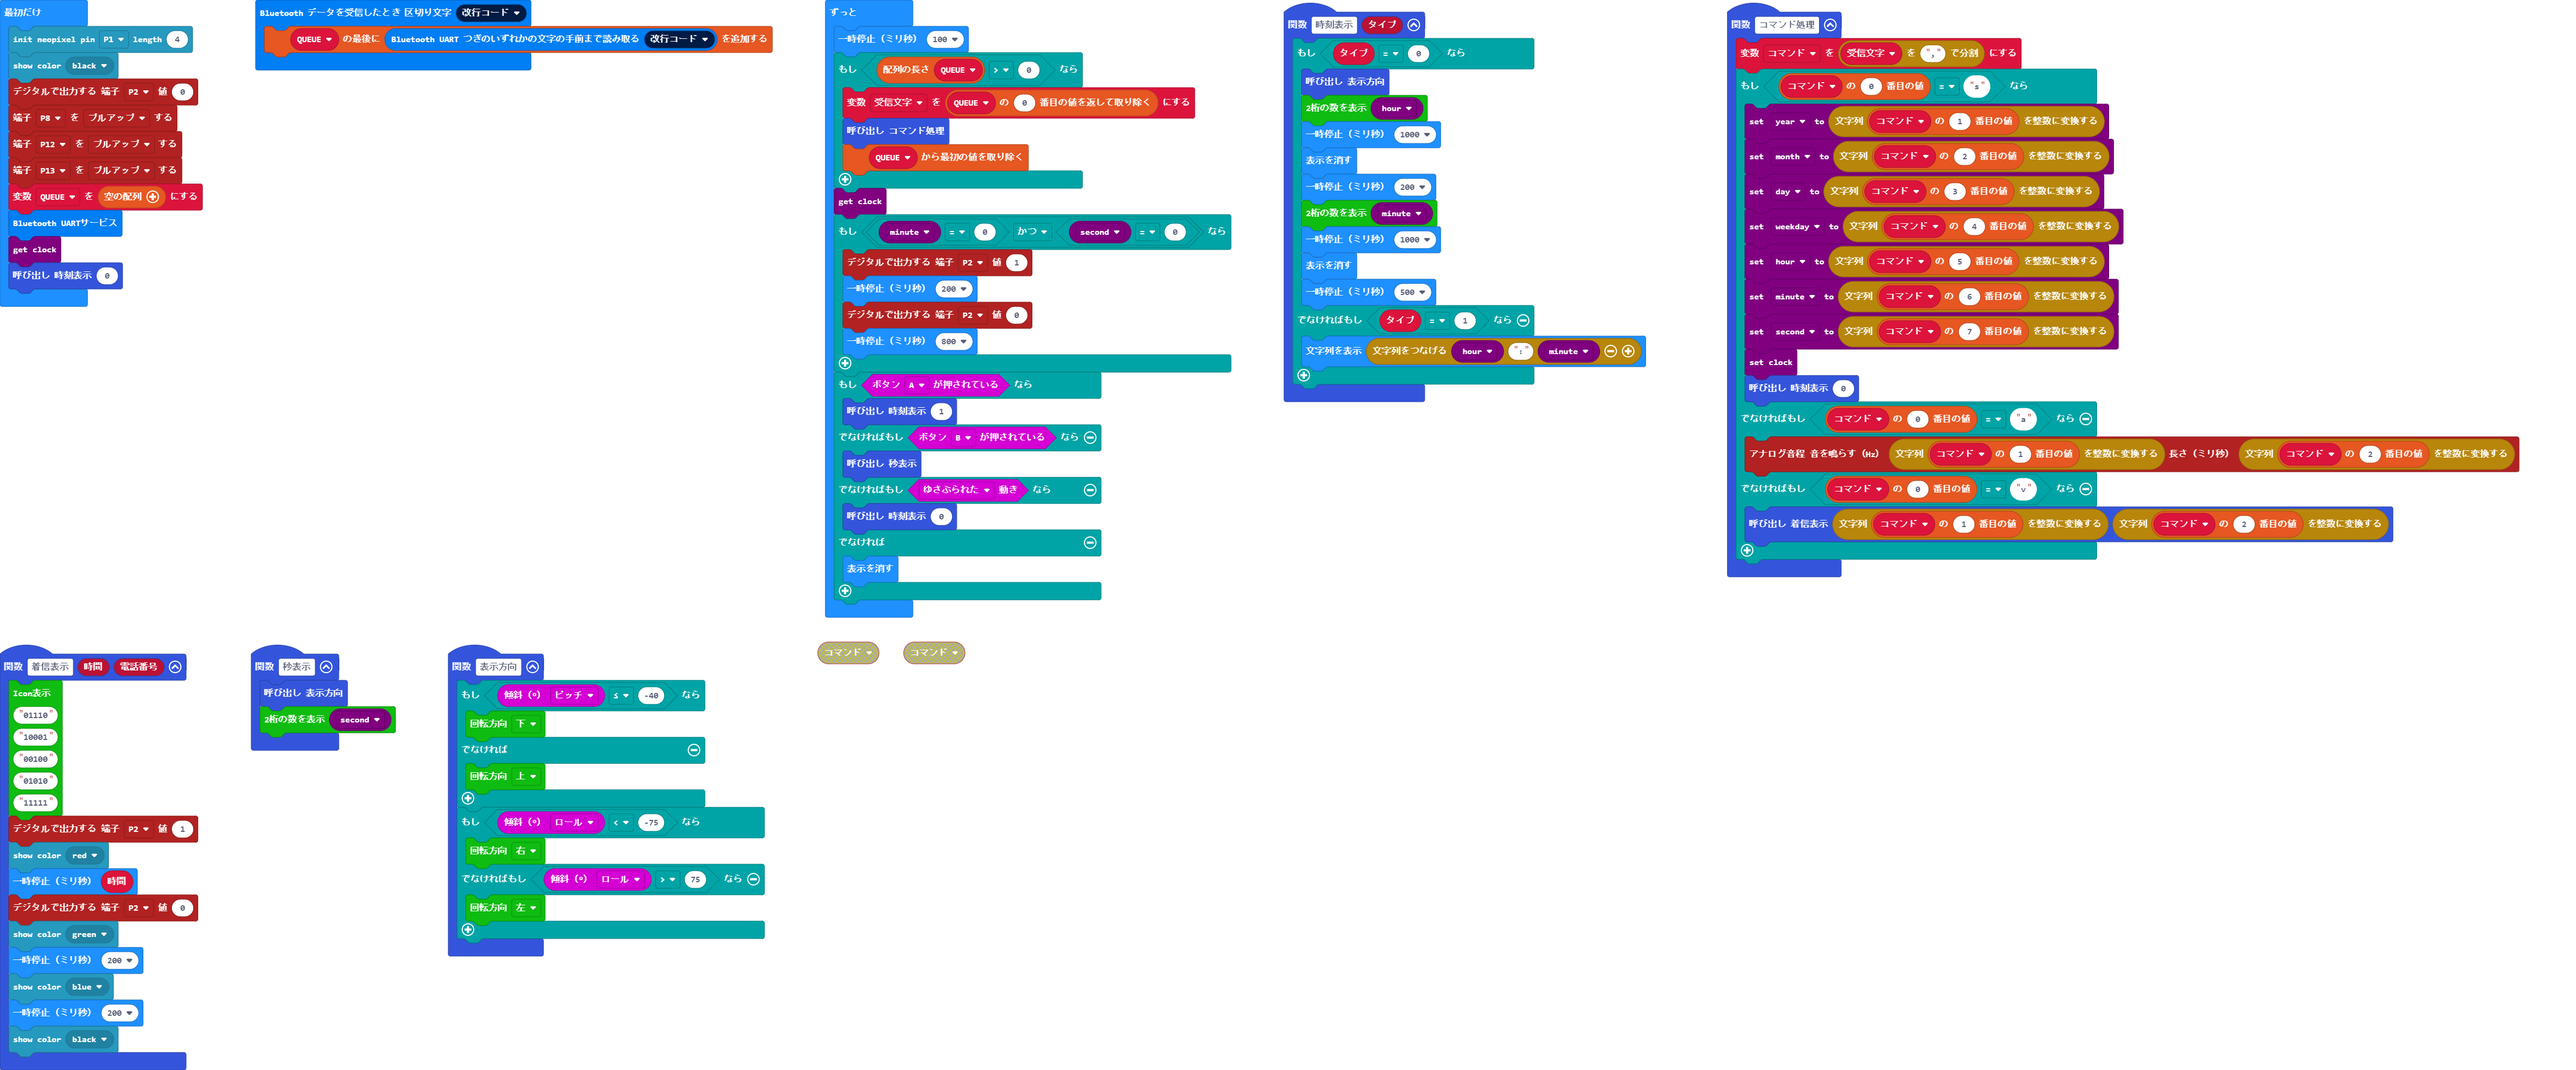
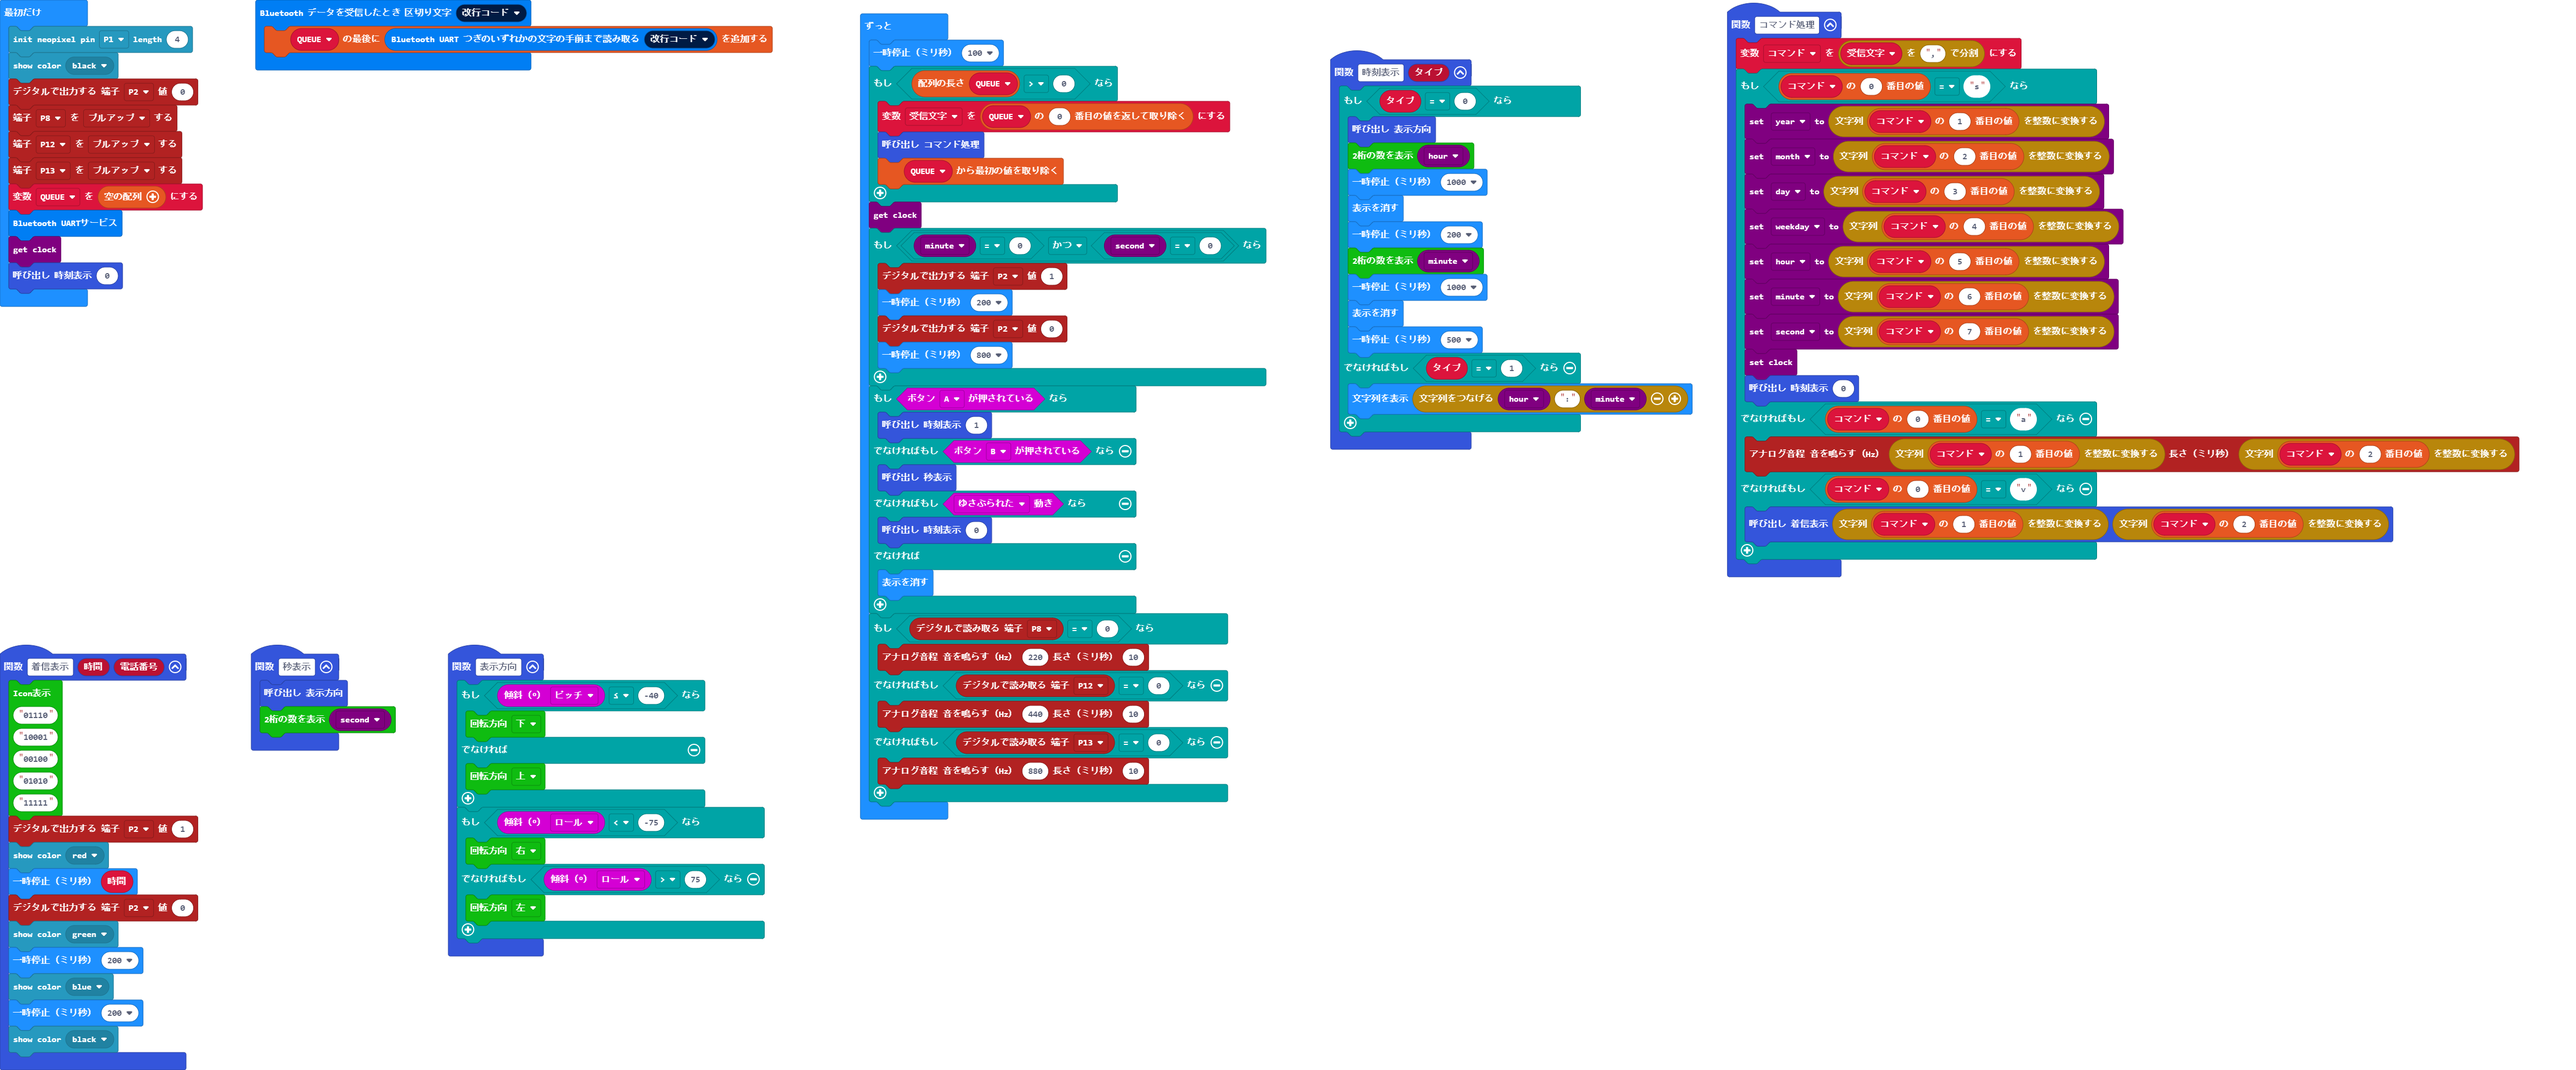
更新 pxt.json, main.blocks, main.ts

Changed region(s): [[0.3124, 0.0, 0.656, 0.7801]]

diff --git a/main.ts b/main.ts
@@ -104,4 +104,11 @@ basic.forever(function () {
     } else {
         basic.clearScreen()
     }
+    if (pins.digitalReadPin(DigitalPin.P8) == 0) {
+        pins.analogPitch(220, 10)
+    } else if (pins.digitalReadPin(DigitalPin.P12) == 0) {
+        pins.analogPitch(440, 10)
+    } else if (pins.digitalReadPin(DigitalPin.P13) == 0) {
+        pins.analogPitch(880, 10)
+    }
 })
